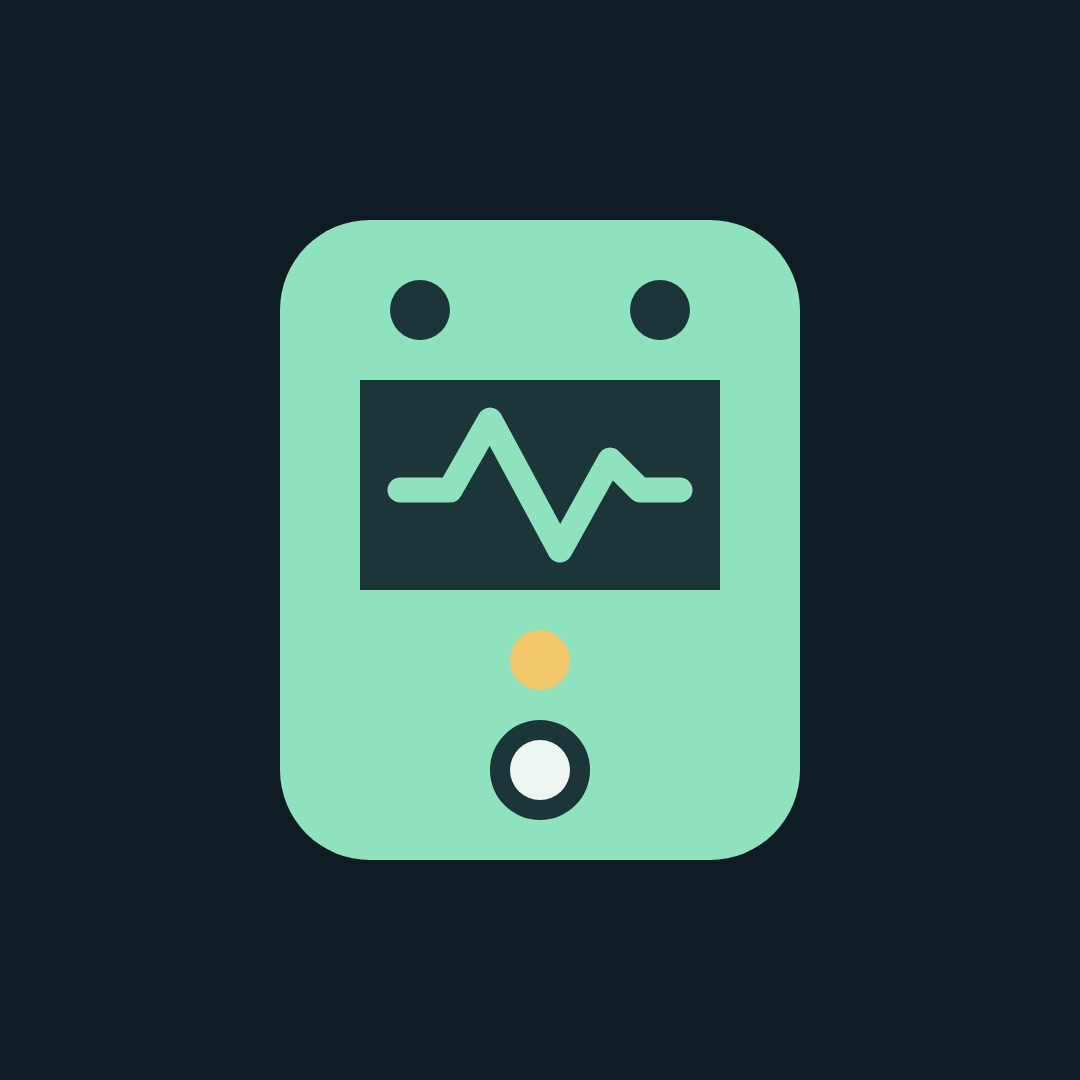
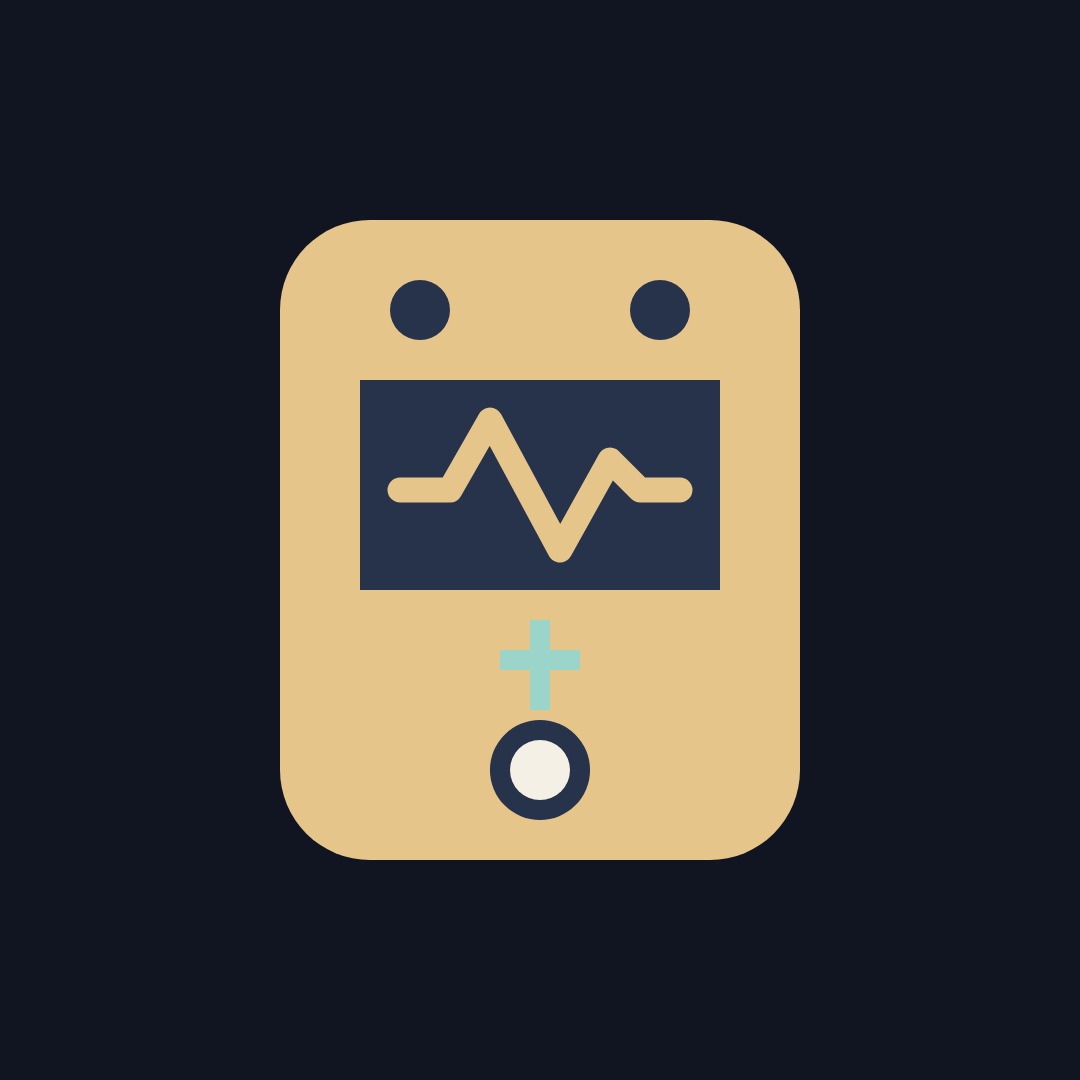
Refine tablet interface with midnight gold worship palette

Changed region(s): [[0.2444, 0.1833, 0.7639, 0.7944]]

diff --git a/app/src/main/assets/www/style.css b/app/src/main/assets/www/style.css
@@ -1,8 +1,81 @@
-:root{color-scheme:dark;--bg:#0d171e;--panel:#17252e;--line:#2c3c46;--text:#edf2f0;--muted:#a4b4bc;--mint:#9ce9c4;--gold:#e7c788;font-family:system-ui,sans-serif}*{box-sizing:border-box}body{margin:0;background:var(--bg);color:var(--text)}button,input,select{font:inherit}button{cursor:pointer;min-height:48px;border:1px solid var(--line);border-radius:13px;padding:11px 16px;color:var(--text);background:#20323d;font-weight:650}button:disabled{opacity:.45;cursor:default}button:focus-visible,input:focus-visible,select:focus-visible,summary:focus-visible{outline:3px solid var(--mint);outline-offset:3px}button:active{transform:translateY(1px)}.primary{background:var(--mint);color:#122a24;border-color:var(--mint)}.secondary{background:#233640}.text-button{background:transparent;border-color:transparent;color:var(--mint)}.top{padding:22px max(20px,env(safe-area-inset-right));display:flex;justify-content:space-between;align-items:center;gap:12px;border-bottom:1px solid var(--line)}.brand{display:flex;align-items:center;gap:12px}.brand-icon{display:grid;place-items:center;background:var(--mint);border-radius:12px;color:#142921;width:42px;height:46px;font-weight:900}.brand strong{font-size:21px;letter-spacing:-.6px}.brand strong span{font-weight:400;color:var(--muted)}.brand small{display:block;color:var(--muted);font-size:11px;margin-top:3px}.badge{font-size:10px;font-weight:800;letter-spacing:1px;border:1px solid var(--line);border-radius:20px;padding:9px;white-space:nowrap}.badge.connected{color:var(--mint);border-color:#44715e}main{max-width:1050px;margin:auto;padding:30px 20px 115px}h1{font-size:clamp(31px,6vw,48px);line-height:1.12;letter-spacing:-1.7px;margin:10px 0 18px}h1 span{color:var(--muted);font-weight:400}h2{font-size:18px;margin:0 0 15px}p{line-height:1.6}.eyebrow{color:var(--mint);font-size:10px;font-weight:800;letter-spacing:2px}.muted{color:var(--muted);font-size:13px}.section-heading{display:flex;align-items:center;justify-content:space-between;gap:15px}.compact{margin:22px 0 15px}.compact h2{margin:0}.welcome{text-align:center;padding:45px 20px;background:linear-gradient(155deg,#1e343b,#16242d);border:1px solid var(--line);border-radius:22px;margin-top:27px}.welcome p{max-width:420px;margin:0 auto 25px;color:var(--muted)}.welcome small{display:block;color:var(--muted);margin-top:15px}.empty-art{font-size:40px;color:var(--mint);letter-spacing:5px;margin-bottom:30px}.preset-bar{display:flex;align-items:end;gap:12px;margin-top:24px}.grow{flex:1}label{display:block;font-size:12px;color:var(--muted);line-height:1.4}input:not([type=checkbox]):not([type=range]),select{width:100%;background:#101e26;color:var(--text);border:1px solid #3a4b56;border-radius:10px;padding:12px;margin-top:7px;min-height:48px}select{max-width:100%;text-overflow:ellipsis}.icon-button{font-size:20px;width:48px;padding:8px}.scene-tabs{display:grid;grid-template-columns:repeat(3,1fr);gap:10px;margin-top:20px}.scene-tabs button{text-align:left;padding:14px 15px;background:#15242d}.scene-tabs button.active{background:#2e443c;border-color:var(--mint);color:var(--mint)}.scene-tabs small{display:block;font-size:11px;color:var(--muted);font-weight:400;margin-top:5px}.context-strip{display:flex;align-items:center;justify-content:space-between;gap:12px;color:var(--muted);font-size:11px;margin:17px 0}.context-strip label{display:flex;align-items:center;gap:7px}.context-strip input#tempo{width:70px;min-height:38px;margin:0;padding:8px}.chain{display:flex;gap:10px;overflow-x:auto;padding:4px 3px 17px;scroll-snap-type:x proximity}.block-card{flex:0 0 121px;padding:7px 8px 12px;background:#172832;text-align:left;position:relative;scroll-snap-align:start}.block-card.selected{border-color:var(--mint);background:#213a40}.block-card.bypass .gear-art{opacity:.35}.block-card .gear-art{width:100%;height:82px;display:block}.block-card strong{display:block;font-size:13px}.block-card small{display:block;font-size:10px;color:var(--muted);margin-top:5px;overflow:hidden;white-space:nowrap;text-overflow:ellipsis;max-width:104px}.led{display:inline-block;width:6px;height:6px;border-radius:50%;background:var(--mint);margin-right:5px}.bypass .led{background:#657681}.panel{background:var(--panel);border:1px solid var(--line);border-radius:19px;padding:20px;margin:18px 0}.panel .compact:first-child{margin-top:0}.block-header{display:flex;align-items:center;gap:17px}.block-header .gear-art{width:105px;height:85px;flex-shrink:0}.block-header h2{margin:5px 0}.block-header .eyebrow{font-size:10px}.inline{display:flex;align-items:center;gap:8px}input[type=checkbox]{width:22px;height:22px;accent-color:var(--mint)}.parameters{display:grid;grid-template-columns:repeat(2,minmax(0,1fr));gap:22px 20px;margin-top:25px}.parameter-head{display:flex;justify-content:space-between;gap:6px;font-size:12px;color:var(--muted)}output{color:var(--mint);font-weight:700}.parameter input{width:100%;min-height:44px;accent-color:var(--mint)}.actions{display:flex;gap:10px;flex-wrap:wrap;margin-top:20px}.notice{font-size:12px;color:#b8c7c9;line-height:1.6;border-left:2px solid #698c7c;padding-left:12px;margin:20px 0 0}.bottom{position:fixed;bottom:0;left:0;right:0;display:flex;justify-content:center;gap:15px;background:#101e27f5;border-top:1px solid var(--line);padding:10px 15px max(10px,env(safe-area-inset-bottom));z-index:10}.bottom button{background:none;border:0;color:var(--muted);min-width:140px}.bottom button.active{background:#294138;color:var(--mint)}.bottom span{margin-left:8px}.two-col{display:grid;grid-template-columns:1fr 1fr;gap:15px;margin:18px 0}.live-display{display:flex;align-items:center;gap:15px;background:#0e1d25;padding:20px;border-radius:12px}.live-display strong{font-size:33px;color:var(--mint)}.live-display span{font-size:14px;color:var(--muted)}summary{cursor:pointer;min-height:44px;font-weight:650}.mapping-row{display:grid;grid-template-columns:65px repeat(3,minmax(0,1fr));gap:8px;align-items:center;margin:15px 0}.mapping-row strong{font-size:12px}.mapping-row input{padding:9px!important}.live-effect{display:flex;align-items:center;justify-content:space-between;gap:10px;border-top:1px solid var(--line);padding:15px 0}.live-effect small{display:block;color:var(--muted);margin-top:5px}.live-effect .actions{margin:0;flex-wrap:nowrap}.live-effect button{padding:8px 12px}pre{font:11px/1.7 monospace;overflow:auto;color:#a5d7c3;max-height:230px}#toast{position:fixed;left:20px;right:20px;bottom:95px;background:#d8efdf;color:#14291f;padding:16px;border-radius:13px;z-index:50;box-shadow:0 8px 35px #0008;font-size:13px}#toast.error{background:#f2c8ba;color:#432115}dialog{background:var(--panel);color:var(--text);border:1px solid var(--line);border-radius:19px;max-width:calc(100vw - 40px);width:400px;padding:25px}dialog::backdrop{background:#000a}[hidden]{display:none!important}@media(min-width:800px){.parameters{grid-template-columns:repeat(4,minmax(0,1fr))}.top{padding-left:calc((100vw - 1010px)/2);padding-right:calc((100vw - 1010px)/2)}.chain{flex-wrap:wrap}.block-card{flex:1 0 130px;max-width:150px}}@media(max-width:380px){.brand small{display:none}.top{padding:16px}.badge{font-size:8px}main{padding:24px 14px 110px}.panel{padding:15px}.scene-tabs{gap:6px}.scene-tabs button{padding:12px}.live-effect{flex-wrap:wrap}}
+:root{color-scheme:dark;--bg:#101521;--panel:#192131;--line:#343e50;--text:#f5f0e6;--muted:#b2bac9;--mint:#e6c58b;--gold:#e6c58b;font-family:system-ui,sans-serif}*{box-sizing:border-box}body{margin:0;background:var(--bg);color:var(--text)}button,input,select{font:inherit}button{cursor:pointer;min-height:48px;border:1px solid var(--line);border-radius:13px;padding:11px 16px;color:var(--text);background:#253045;font-weight:650}button:disabled{opacity:.45;cursor:default}button:focus-visible,input:focus-visible,select:focus-visible,summary:focus-visible{outline:3px solid var(--mint);outline-offset:3px}button:active{transform:translateY(1px)}.primary{background:var(--mint);color:#201c14;border-color:var(--mint)}.secondary{background:#253045}.text-button{background:transparent;border-color:transparent;color:var(--mint)}.top{padding:22px max(20px,env(safe-area-inset-right));display:flex;justify-content:space-between;align-items:center;gap:12px;border-bottom:1px solid var(--line)}.brand{display:flex;align-items:center;gap:12px}.brand-icon{display:grid;place-items:center;background:var(--mint);border-radius:12px;color:#201c14;width:42px;height:46px;font-weight:900}.brand strong{font-size:21px;letter-spacing:-.6px}.brand strong span{font-weight:400;color:var(--muted)}.brand small{display:block;color:var(--muted);font-size:11px;margin-top:3px}.badge{font-size:10px;font-weight:800;letter-spacing:1px;border:1px solid var(--line);border-radius:20px;padding:9px;white-space:nowrap}.badge.connected{color:var(--mint);border-color:#708f8a}main{max-width:1050px;margin:auto;padding:30px 20px 115px}h1{font-size:clamp(31px,6vw,48px);line-height:1.12;letter-spacing:-1.7px;margin:10px 0 18px}h1 span{color:var(--muted);font-weight:400}h2{font-size:18px;margin:0 0 15px}p{line-height:1.6}.eyebrow{color:var(--mint);font-size:10px;font-weight:800;letter-spacing:2px}.muted{color:var(--muted);font-size:13px}.section-heading{display:flex;align-items:center;justify-content:space-between;gap:15px}.compact{margin:22px 0 15px}.compact h2{margin:0}.welcome{text-align:center;padding:45px 20px;background:linear-gradient(155deg,#26304a,#161e2e);border:1px solid var(--line);border-radius:22px;margin-top:27px}.welcome p{max-width:420px;margin:0 auto 25px;color:var(--muted)}.welcome small{display:block;color:var(--muted);margin-top:15px}.empty-art{font-size:40px;color:var(--mint);letter-spacing:5px;margin-bottom:30px}.preset-bar{display:flex;align-items:end;gap:12px;margin-top:24px}.grow{flex:1}label{display:block;font-size:12px;color:var(--muted);line-height:1.4}input:not([type=checkbox]):not([type=range]),select{width:100%;background:#111927;color:var(--text);border:1px solid #45516a;border-radius:10px;padding:12px;margin-top:7px;min-height:48px}select{max-width:100%;text-overflow:ellipsis}.icon-button{font-size:20px;width:48px;padding:8px}.scene-tabs{display:grid;grid-template-columns:repeat(3,1fr);gap:10px;margin-top:20px}.scene-tabs button{text-align:left;padding:14px 15px;background:#192335}.scene-tabs button.active{background:#393328;border-color:var(--mint);color:var(--mint)}.scene-tabs small{display:block;font-size:11px;color:var(--muted);font-weight:400;margin-top:5px}.context-strip{display:flex;align-items:center;justify-content:space-between;gap:12px;color:var(--muted);font-size:11px;margin:17px 0}.context-strip label{display:flex;align-items:center;gap:7px}.context-strip input#tempo{width:70px;min-height:38px;margin:0;padding:8px}.chain{display:flex;gap:10px;overflow-x:auto;padding:4px 3px 17px;scroll-snap-type:x proximity}.block-card{flex:0 0 121px;padding:7px 8px 12px;background:#1b2639;text-align:left;position:relative;scroll-snap-align:start}.block-card.selected{border-color:var(--mint);background:#303547}.block-card.bypass .gear-art{opacity:.35}.block-card .gear-art{width:100%;height:82px;display:block}.block-card strong{display:block;font-size:13px}.block-card small{display:block;font-size:10px;color:var(--muted);margin-top:5px;overflow:hidden;white-space:nowrap;text-overflow:ellipsis;max-width:104px}.led{display:inline-block;width:6px;height:6px;border-radius:50%;background:var(--mint);margin-right:5px}.bypass .led{background:#657681}.panel{background:var(--panel);border:1px solid var(--line);border-radius:19px;padding:20px;margin:18px 0}.panel .compact:first-child{margin-top:0}.block-header{display:flex;align-items:center;gap:17px}.block-header .gear-art{width:105px;height:85px;flex-shrink:0}.block-header h2{margin:5px 0}.block-header .eyebrow{font-size:10px}.inline{display:flex;align-items:center;gap:8px}input[type=checkbox]{width:22px;height:22px;accent-color:var(--mint)}.parameters{display:grid;grid-template-columns:repeat(2,minmax(0,1fr));gap:22px 20px;margin-top:25px}.parameter-head{display:flex;justify-content:space-between;gap:6px;font-size:12px;color:var(--muted)}output{color:var(--mint);font-weight:700}.parameter input{width:100%;min-height:44px;accent-color:var(--mint)}.actions{display:flex;gap:10px;flex-wrap:wrap;margin-top:20px}.notice{font-size:12px;color:#b8c7c9;line-height:1.6;border-left:2px solid #698c7c;padding-left:12px;margin:20px 0 0}.bottom{position:fixed;bottom:0;left:0;right:0;display:flex;justify-content:center;gap:15px;background:#141c2bf5;border-top:1px solid var(--line);padding:10px 15px max(10px,env(safe-area-inset-bottom));z-index:10}.bottom button{background:none;border:0;color:var(--muted);min-width:140px}.bottom button.active{background:#3a3329;color:var(--mint)}.bottom span{margin-left:8px}.two-col{display:grid;grid-template-columns:1fr 1fr;gap:15px;margin:18px 0}.live-display{display:flex;align-items:center;gap:15px;background:#111a29;padding:20px;border-radius:12px}.live-display strong{font-size:33px;color:var(--mint)}.live-display span{font-size:14px;color:var(--muted)}summary{cursor:pointer;min-height:44px;font-weight:650}.mapping-row{display:grid;grid-template-columns:65px repeat(3,minmax(0,1fr));gap:8px;align-items:center;margin:15px 0}.mapping-row strong{font-size:12px}.mapping-row input{padding:9px!important}.live-effect{display:flex;align-items:center;justify-content:space-between;gap:10px;border-top:1px solid var(--line);padding:15px 0}.live-effect small{display:block;color:var(--muted);margin-top:5px}.live-effect .actions{margin:0;flex-wrap:nowrap}.live-effect button{padding:8px 12px}pre{font:11px/1.7 monospace;overflow:auto;color:#a5d7c3;max-height:230px}#toast{position:fixed;left:20px;right:20px;bottom:95px;background:#d8efdf;color:#14291f;padding:16px;border-radius:13px;z-index:50;box-shadow:0 8px 35px #0008;font-size:13px}#toast.error{background:#f2c8ba;color:#432115}dialog{background:var(--panel);color:var(--text);border:1px solid var(--line);border-radius:19px;max-width:calc(100vw - 40px);width:400px;padding:25px}dialog::backdrop{background:#000a}[hidden]{display:none!important}@media(min-width:800px){.parameters{grid-template-columns:repeat(4,minmax(0,1fr))}.top{padding-left:calc((100vw - 1010px)/2);padding-right:calc((100vw - 1010px)/2)}.chain{flex-wrap:wrap}.block-card{flex:1 0 130px;max-width:150px}}@media(max-width:380px){.brand small{display:none}.top{padding:16px}.badge{font-size:8px}main{padding:24px 14px 110px}.panel{padding:15px}.scene-tabs{gap:6px}.scene-tabs button{padding:12px}.live-effect{flex-wrap:wrap}}
 .has-document #editorTitle,#midiView h1{font-size:27px;letter-spacing:-.8px;line-height:1.2;margin:10px 0}.has-document #editorView>.section-heading{align-items:center}.has-document #fileName{margin:12px 0 16px}.has-document .preset-bar{margin-top:14px}
 
-.bottom{gap:5px}.bottom button{min-width:0;flex:1;max-width:200px;padding:10px 7px;font-size:13px}.bottom span{margin-left:4px}.stage-title{font-size:30px;margin:6px 0;letter-spacing:-1px}.stage-top{display:flex;justify-content:space-between;align-items:center;gap:15px;flex-wrap:wrap;padding:14px 0}.stage-top>strong{font-size:20px;color:var(--mint)}.stage-scenes{display:grid;grid-template-columns:repeat(3,minmax(0,1fr));gap:12px;margin:16px 0}.stage-scene{min-height:98px;text-align:left;padding:15px;background:#192b35}.stage-scene strong{font-size:26px;display:block}.stage-scene span{font-size:12px;color:var(--muted);display:block;margin-top:7px;overflow-wrap:anywhere}.stage-scene.active{border-color:var(--mint);background:#29463a;color:var(--mint)}.stage-toolbar{display:flex;gap:10px;flex-wrap:wrap;margin:14px 0 24px}.stage-pedals{display:grid;grid-template-columns:repeat(2,minmax(0,1fr));gap:14px}.stage-pedal{border:1px solid var(--line);background:var(--panel);border-radius:17px;overflow:hidden}.stage-pedal.is-on{border-color:#639d86}.stage-open{border:0;background:transparent;border-radius:0;display:flex;align-items:center;flex-direction:column;width:100%;padding:10px 7px 15px;min-height:145px}.stage-open .gear-art{width:100%;height:80px;opacity:.5}.is-on .stage-open .gear-art{opacity:1}.stage-open strong{font-size:17px;margin-top:6px}.stage-open small{color:var(--muted);font-size:10px;max-width:100%;overflow:hidden;text-overflow:ellipsis;white-space:nowrap;margin-top:5px}.stage-toggle{width:100%;border-radius:0;border:0;border-top:1px solid var(--line);background:#25343d;color:var(--muted);min-height:56px}.is-on .stage-toggle{background:#29463a;color:var(--mint)}#stageEditor{width:min(720px,calc(100vw - 28px));max-height:85vh;overflow-y:auto}#transferDialog{width:min(640px,calc(100vw - 28px));max-height:85vh;overflow-y:auto}#transferSlots{max-height:200px;overflow:auto;background:#101e26;padding:13px;border-radius:10px}#stageTransfer{overflow-wrap:anywhere}#stageView .notice{margin-bottom:18px}@media(min-width:600px){.stage-pedals{grid-template-columns:repeat(3,minmax(0,1fr))}}@media(min-width:900px){.stage-pedals{grid-template-columns:repeat(4,minmax(0,1fr))}}@media(max-width:360px){.stage-scenes{gap:7px}.stage-scene{padding:12px;min-height:85px}.stage-pedals{gap:9px}.stage-open strong{font-size:15px}.stage-title{font-size:25px}}
+.bottom{gap:5px}.bottom button{min-width:0;flex:1;max-width:200px;padding:10px 7px;font-size:13px}.bottom span{margin-left:4px}.stage-title{font-size:30px;margin:6px 0;letter-spacing:-1px}.stage-top{display:flex;justify-content:space-between;align-items:center;gap:15px;flex-wrap:wrap;padding:14px 0}.stage-top>strong{font-size:20px;color:var(--mint)}.stage-scenes{display:grid;grid-template-columns:repeat(3,minmax(0,1fr));gap:12px;margin:16px 0}.stage-scene{min-height:98px;text-align:left;padding:15px;background:#1b2639}.stage-scene strong{font-size:26px;display:block}.stage-scene span{font-size:12px;color:var(--muted);display:block;margin-top:7px;overflow-wrap:anywhere}.stage-scene.active{border-color:var(--mint);background:#3b3429;color:var(--mint)}.stage-toolbar{display:flex;gap:10px;flex-wrap:wrap;margin:14px 0 24px}.stage-pedals{display:grid;grid-template-columns:repeat(2,minmax(0,1fr));gap:14px}.stage-pedal{border:1px solid var(--line);background:var(--panel);border-radius:17px;overflow:hidden}.stage-pedal.is-on{border-color:#a58d64}.stage-open{border:0;background:transparent;border-radius:0;display:flex;align-items:center;flex-direction:column;width:100%;padding:10px 7px 15px;min-height:145px}.stage-open .gear-art{width:100%;height:80px;opacity:.5}.is-on .stage-open .gear-art{opacity:1}.stage-open strong{font-size:17px;margin-top:6px}.stage-open small{color:var(--muted);font-size:10px;max-width:100%;overflow:hidden;text-overflow:ellipsis;white-space:nowrap;margin-top:5px}.stage-toggle{width:100%;border-radius:0;border:0;border-top:1px solid var(--line);background:#202b3e;color:var(--muted);min-height:56px}.is-on .stage-toggle{background:#3b3429;color:var(--mint)}#stageEditor{width:min(720px,calc(100vw - 28px));max-height:85vh;overflow-y:auto}#transferDialog{width:min(640px,calc(100vw - 28px));max-height:85vh;overflow-y:auto}#transferSlots{max-height:200px;overflow:auto;background:#111927;padding:13px;border-radius:10px}#stageTransfer{overflow-wrap:anywhere}#stageView .notice{margin-bottom:18px}@media(min-width:600px){.stage-pedals{grid-template-columns:repeat(3,minmax(0,1fr))}}@media(min-width:900px){.stage-pedals{grid-template-columns:repeat(4,minmax(0,1fr))}}@media(max-width:360px){.stage-scenes{gap:7px}.stage-scene{padding:12px;min-height:85px}.stage-pedals{gap:9px}.stage-open strong{font-size:15px}.stage-title{font-size:25px}}
 
 .stage-mode .top{padding:10px 20px}.stage-mode .brand small{display:none}.stage-mode .brand-icon{width:30px;height:32px;font-size:15px}.stage-mode .brand strong{font-size:18px}.stage-mode main{position:relative;padding-top:16px}.stage-ready.stage-mode #stageView>.section-heading{position:absolute;right:20px;top:46px;z-index:2}.stage-ready.stage-mode #stageView>.section-heading>div{display:none}.stage-ready.stage-mode #stageSync{min-height:40px;padding:8px 12px;font-size:12px}.stage-ready.stage-mode #stageStatus{font-size:11px;margin:0 0 7px;min-height:17px}.stage-ready.stage-mode .stage-top{padding:8px 96px 8px 0;min-height:48px}.stage-ready.stage-mode .stage-top>strong{font-size:17px}.stage-ready.stage-mode .stage-top label{font-size:10px}.stage-ready.stage-mode .stage-scenes{position:sticky;top:0;z-index:1;background:var(--bg);padding:5px 0;gap:8px;margin:4px 0 10px}.stage-ready.stage-mode .stage-scene{min-height:64px;padding:8px 12px}.stage-ready.stage-mode .stage-scene strong{font-size:21px}.stage-ready.stage-mode .stage-scene span{font-size:11px;margin-top:4px}.stage-ready.stage-mode .stage-open{min-height:84px;padding:7px}.stage-ready.stage-mode .stage-open .gear-art{height:38px}.stage-ready.stage-mode .stage-open strong{font-size:15px;margin-top:3px}.stage-ready.stage-mode .stage-open small{font-size:9px}.stage-ready.stage-mode .stage-toggle{min-height:48px}.stage-ready.stage-mode .stage-pedals{gap:10px}
 
-.header-actions{display:flex;align-items:center;gap:8px}#settingsOpen{min-width:44px;width:44px;padding:5px;font-size:21px}#settingsDialog{width:min(900px,calc(100vw - 26px));max-height:90vh;overflow:auto}#settingsDialog h1{font-size:24px;letter-spacing:-.5px}#padConfig{max-height:85vh;overflow-y:auto;width:min(520px,calc(100vw - 28px))}.performance-grid{display:grid;grid-template-columns:repeat(2,minmax(0,1fr));gap:14px;margin:20px 0}.performance-pad{min-height:158px;text-align:left;display:flex;flex-direction:column;justify-content:center;gap:10px;position:relative;padding:22px 16px;background:#192b35;border:2px solid #344a58;touch-action:pan-y;user-select:none;-webkit-user-select:none;-webkit-touch-callout:none}.performance-pad.active{background:#28483d;border-color:var(--mint)}.performance-pad strong{font-size:21px;overflow-wrap:anywhere}.performance-pad small{font-size:11px;color:var(--muted)}.pad-number{position:absolute;top:9px;right:12px;color:#90a4b0;font-size:10px}.pad-state{font-size:10px;color:var(--muted)}.performance-pad.active .pad-state{color:var(--mint)}.performance-pad.pressing{border-color:var(--gold)}#padsView .section-heading{align-items:center}#padsPreset{font-size:13px;min-height:20px}@media(min-width:700px){.performance-grid{grid-template-columns:repeat(4,minmax(0,1fr))}.performance-pad{min-height:180px}}@media(max-width:360px){.header-actions{gap:5px}.top .brand-icon{display:none}.top .brand strong{font-size:17px}.top .badge{font-size:8px;padding:6px}.performance-pad{min-height:145px;padding:20px 12px}.performance-pad strong{font-size:18px}}
+.header-actions{display:flex;align-items:center;gap:8px}#settingsOpen{min-width:44px;width:44px;padding:5px;font-size:21px}#settingsDialog{width:min(900px,calc(100vw - 26px));max-height:90vh;overflow:auto}#settingsDialog h1{font-size:24px;letter-spacing:-.5px}#padConfig{max-height:85vh;overflow-y:auto;width:min(520px,calc(100vw - 28px))}.performance-grid{display:grid;grid-template-columns:repeat(2,minmax(0,1fr));gap:14px;margin:20px 0}.performance-pad{min-height:158px;text-align:left;display:flex;flex-direction:column;justify-content:center;gap:10px;position:relative;padding:22px 16px;background:#1b2639;border:2px solid #3a465d;touch-action:pan-y;user-select:none;-webkit-user-select:none;-webkit-touch-callout:none}.performance-pad.active{background:#34332f;border-color:var(--mint)}.performance-pad strong{font-size:21px;overflow-wrap:anywhere}.performance-pad small{font-size:11px;color:var(--muted)}.pad-number{position:absolute;top:9px;right:12px;color:#a9b4c7;font-size:10px}.pad-state{font-size:10px;color:var(--muted)}.performance-pad.active .pad-state{color:var(--mint)}.performance-pad.pressing{border-color:var(--gold)}#padsView .section-heading{align-items:center}#padsPreset{font-size:13px;min-height:20px}@media(min-width:700px){.performance-grid{grid-template-columns:repeat(4,minmax(0,1fr))}.performance-pad{min-height:180px}}@media(max-width:360px){.header-actions{gap:5px}.top .brand-icon{display:none}.top .brand strong{font-size:17px}.top .badge{font-size:8px;padding:6px}.performance-pad{min-height:145px;padding:20px 12px}.performance-pad strong{font-size:18px}}
+
+/* Quiet worship palette; color complements the explicit ON/OFF labels. */
+:root{--teal:#9bd4c8;--shadow:0 10px 28px #05091440}
+body{min-height:100vh;background:radial-gradient(ellipse at 90% 0,#26304a66,transparent 55%),var(--bg);background-repeat:no-repeat}
+button{transition:border-color .15s,background-color .15s; -webkit-tap-highlight-color:transparent}
+button:disabled{opacity:.55}
+.primary{background:linear-gradient(120deg,#efd6a7,#d8b577);box-shadow:0 3px 12px #080b1426}
+.secondary{background:#222d41}
+.top{background:#121a28;border-bottom-color:#303a4c}
+.brand-icon{background:#e6c58b14;border:1px solid #a58d6455;color:var(--gold);border-radius:13px}
+.brand-icon svg{width:28px;height:28px}
+.brand strong{font-weight:750}.brand strong span{color:var(--gold);font-weight:450}
+.badge{color:var(--muted);font-size:9px;letter-spacing:.7px;background:#0f1725}
+.badge.connected{color:var(--teal);border-color:#5c8c83;background:#18322f}
+.eyebrow{color:var(--gold);font-size:9px;letter-spacing:2.2px}
+.stage-title{font-weight:750;letter-spacing:-.9px}
+.stage-top{border-bottom:1px solid var(--line);margin-bottom:12px}
+.stage-top>strong{color:var(--text)}
+.stage-scenes{gap:12px}.stage-scene{border-radius:16px;box-shadow:var(--shadow);position:relative;overflow:hidden}
+.stage-scene strong{color:var(--muted);font-size:24px;font-weight:600}
+.stage-scene.active{background:linear-gradient(130deg,#453b2d,#282a2d);border-color:#c9ac78}
+.stage-scene.active strong,.stage-scene.active span{color:#f0d6a7}
+.stage-scene.active::after{content:'';width:6px;height:6px;border-radius:50%;background:var(--gold);position:absolute;right:14px;top:14px}
+.stage-pedal,.performance-pad{--effect:#a8b6ca;box-shadow:var(--shadow)}
+[data-kind="scene"]{--effect:#e6c58b}[data-kind="EFX"]{--effect:#e3b48c}[data-kind="AMP"]{--effect:#dec38e}[data-kind="DLY"]{--effect:#ada7e5}[data-kind="RVB"]{--effect:#8acacb}[data-kind="MOD"]{--effect:#92b7e4}[data-kind="CMP"]{--effect:#c3bc9f}[data-kind="EQ"]{--effect:#a9c8a8}
+.stage-pedal{border-radius:18px;border-top:3px solid #45516a;background:linear-gradient(145deg,#202b3e,#172131)}
+.stage-pedal.is-on{border-color:#46546b;border-top-color:var(--effect)}
+.stage-open small{font-size:11px;letter-spacing:.15px}
+.stage-open strong{font-weight:650}
+.stage-open .gear-art{opacity:.65}
+.stage-toggle{font-size:12px;letter-spacing:.3px;background:#141e2e;color:var(--muted)}
+.is-on .stage-toggle{color:var(--effect);background:#232e40}
+.stage-toggle::before{content:'';display:inline-block;width:6px;height:6px;background:#647188;border-radius:50%;margin-right:8px;vertical-align:middle}
+.is-on .stage-toggle::before{background:var(--effect)}
+.performance-grid{gap:16px}
+.performance-pad{border:1px solid #3a465d;border-top:3px solid var(--effect);border-radius:20px;background:linear-gradient(145deg,#222d43,#182235);min-height:180px;padding:44px 20px 20px;gap:10px;justify-content:flex-start}
+.performance-pad::before{content:attr(data-type);font-size:9px;letter-spacing:2px;font-weight:750;color:var(--effect)}
+.performance-pad strong{font-size:22px;letter-spacing:-.4px;font-weight:700;line-height:1.2}
+.performance-pad small{font-size:11px;line-height:1.5}
+.performance-pad.active{background:linear-gradient(130deg,#303a45,#202d39);border-color:var(--effect);border-top-width:3px}
+.performance-pad.active strong{color:var(--text)}
+.pad-number{font-size:11px;letter-spacing:1px;top:14px;right:16px;color:#b6bfd0}
+.pad-state{margin-top:auto;display:flex;align-items:center;gap:7px;font-size:10px;padding-top:10px}
+.pad-state::before{content:'';width:6px;height:6px;border-radius:50%;background:#77849a;flex:none}
+.performance-pad.active .pad-state{color:var(--effect)}
+.performance-pad.active .pad-state::before{background:var(--effect);box-shadow:0 0 10px #9bd4c833}
+.performance-pad.pressing{border-color:var(--gold);background:#3a352e}
+.bottom{background:#131b2bf5;border-top-color:#343e50;padding-top:9px;gap:8px}
+.bottom button{border-radius:14px;min-height:50px;font-size:14px}
+.bottom button.active{background:#e6c58b17;color:var(--gold);box-shadow:inset 0 0 0 1px #b69c6d55}
+input[type=range],input[type=checkbox]{accent-color:var(--gold)}
+#stageModelControls{background:#111a29;border:1px solid var(--line);border-radius:14px;padding:16px;margin:18px 0 22px}
+#stageModelApply{margin-top:12px;color:var(--gold);border-color:#a58d6466}
+#stageModelControls .muted{margin-bottom:0;font-size:11px}
+dialog{box-shadow:0 24px 90px #0008;border-color:#46516a;border-radius:24px}
+dialog::backdrop{background:#080d17cc}
+.signature{display:flex;align-items:center;justify-content:center;gap:9px;padding:26px 0 6px;color:#b7ad97;font-size:11px;letter-spacing:.3px}
+.signature>span:first-child{color:var(--gold);font-size:15px}.signature-ref{font-size:8px;color:var(--muted);letter-spacing:1.3px;margin-left:5px}
+.stage-ready.stage-mode .stage-open small{font-size:10px}.stage-ready.stage-mode .stage-toggle{font-size:12px}
+@media(min-width:700px){.performance-pad{min-height:205px}}
+@media(max-width:380px){.performance-grid{gap:10px}.performance-pad{padding:36px 13px 15px;min-height:178px;border-radius:16px}.performance-pad strong{font-size:19px}.performance-pad small{font-size:10px}.pad-state{font-size:9px}.stage-title{font-size:27px}.signature{gap:6px}.signature-ref{font-size:7px}}
+@media(prefers-reduced-motion:reduce){button{transition:none}}
+
+@media(max-height:480px){
+  .stage-mode .top{padding:6px 16px}.stage-mode main{padding-top:10px}
+  #padsView .eyebrow{display:none}#padsView .stage-title{font-size:23px;margin:0}
+  #padsPreset{margin:8px 0;font-size:11px}#padsView .section-heading button{min-height:42px;padding:8px 12px;font-size:12px}
+  .performance-grid{gap:10px;margin:10px 0}.performance-pad{min-height:112px;padding:25px 12px 10px;gap:5px;border-radius:15px}
+  .performance-pad::before{font-size:8px;letter-spacing:1.4px}.performance-pad strong{font-size:18px}.performance-pad small{font-size:9px}
+  .pad-number{top:9px;right:12px;font-size:9px}.pad-state{font-size:8px;padding-top:3px}
+  .bottom{background:#131b2b;padding-top:6px}.bottom button{min-height:46px}
+}
+@media(max-height:480px) and (min-width:700px){.performance-pad[data-kind="scene"] small{display:none}}

diff --git a/app/src/main/assets/www/index.html b/app/src/main/assets/www/index.html
@@ -2,20 +2,20 @@
 <html lang="es">
 <head>
   <meta charset="utf-8"><meta name="viewport" content="width=device-width, initial-scale=1, viewport-fit=cover">
-  <meta name="theme-color" content="#0d171e">
+  <meta name="theme-color" content="#101521">
   <title>MG30 Pocket</title><link rel="stylesheet" href="style.css">
 </head>
 <body>
-  <header class="top"><div class="brand"><span class="brand-icon">M</span><div><strong>MG30 <span>Pocket</span></strong><small>Tu pedalboard, en el bolsillo.</small></div></div><div class="header-actions"><span id="connectionBadge" class="badge">SIN CONEXIÓN</span><button id="settingsOpen" class="icon-button" aria-label="Ajustes">&#9881;</button></div></header>
+  <header class="top"><div class="brand"><span class="brand-icon" aria-hidden="true"><svg viewBox="0 0 32 32" fill="none"><path d="M16 5v22M9 12h14" stroke="currentColor" stroke-width="2.5" stroke-linecap="round"/><path d="M5 23l4-4 4 4M19 23l4-4 4 4" stroke="currentColor" stroke-width="1.5" stroke-linecap="round" opacity=".45"/></svg></span><div><strong>MG30 <span>Pocket</span></strong><small>Hecho para servir. Listo para tocar.</small></div></div><div class="header-actions"><span id="connectionBadge" class="badge">SIN CONEXIÓN</span><button id="settingsOpen" class="icon-button" aria-label="Ajustes">&#9881;</button></div></header>
   <main>
     <section id="padsView" hidden>
-      <div class="section-heading"><div><span class="eyebrow">TOCAR &middot; MANTENER PARA CONFIGURAR</span><h1 class="stage-title">Pads</h1></div><button id="padsSync" class="secondary">Leer NUX</button></div>
+      <div class="section-heading"><div><span class="eyebrow">TU SONIDO, AL SERVICIO</span><h1 class="stage-title">Pads en vivo</h1></div><button id="padsSync" class="secondary">Leer NUX</button></div>
       <p id="padsPreset" class="muted"></p>
       <div id="padGrid" class="performance-grid"></div>
       <p class="muted">Un toque ejecuta. Mantener pulsado configura sin ejecutar. Con teclado: Shift + F10.</p>
     </section>
     <section id="stageView" hidden>
-      <div class="section-heading"><div><span class="eyebrow">TABLET · EN DIRECTO</span><h1 class="stage-title">Editar preset actual</h1></div><button id="stageSync" class="primary">Leer NUX</button></div>
+      <div class="section-heading"><div><span class="eyebrow">ENCUENTRA TU VOZ</span><h1 class="stage-title">Tu pedalboard</h1></div><button id="stageSync" class="primary">Leer NUX</button></div>
       <p id="stageStatus" class="muted" role="status">Conecta USB MIDI y pulsa Leer NUX. Puedes usar pantalla dividida con tu app de letras.</p>
       <div class="stage-top"><strong id="stagePreset">Sin preset leído</strong><label class="inline"><input id="stageAwake" type="checkbox"> Mantener pantalla encendida</label></div>
       <div id="stageScenes" class="stage-scenes" role="group" aria-label="Cambiar escena en la NUX"></div>
@@ -41,6 +41,7 @@
       </div>
     </section>
 
+    <footer class="signature"><span aria-hidden="true">✝</span> Para Su gloria <span class="signature-ref">SALMO 150:6</span></footer>
   </main>
   <nav class="bottom" aria-label="Pantallas"><button id="stageTab" class="active">&#9638; <span>Editar</span></button><button id="padsTab">&#9673; <span>Pads</span></button></nav>
   <div id="toast" role="status" aria-live="polite" hidden></div>

diff --git a/app/src/androidTest/java/cl/isanfurg/mg30pocket/SmokeRunner.java b/app/src/androidTest/java/cl/isanfurg/mg30pocket/SmokeRunner.java
@@ -128,6 +128,12 @@ public class SmokeRunner extends Instrumentation {
             runOnMainSync(()->activity.setRequestedOrientation(android.content.pm.ActivityInfo.SCREEN_ORIENTATION_LANDSCAPE));Thread.sleep(1000);
             check("document.documentElement.scrollWidth<=window.innerWidth","true");
             screenshot("qa-pads-tablet.png");
+            evaluate("document.getElementById('stageTab').click()");
+            until("!document.getElementById('stageView').hidden","true");Thread.sleep(350);
+            check("document.documentElement.scrollWidth<=window.innerWidth","true");
+            screenshot("qa-stage-tablet.png");
+            evaluate("document.getElementById('padsTab').click()");
+            Thread.sleep(350);
             Bitmap icon=Bitmap.createBitmap(1080,1080,Bitmap.Config.ARGB_8888);
             android.graphics.drawable.Drawable art=getTargetContext().getDrawable(cl.isanfurg.mg30pocket.R.drawable.ic_launcher);
             art.setBounds(0,0,1080,1080);art.draw(new android.graphics.Canvas(icon));

diff --git a/README.md b/README.md
@@ -1,6 +1,10 @@
 # MG30 Pocket
 
-<img src="docs/images/icon.svg" width="112" alt="Icono original: pedal verde con onda de audio">
+<img src="docs/images/icon.svg" width="112" alt="Icono original: pedal dorado con onda de audio y cruz discreta">
+
+### Diseño 0.4.1
+
+Azul noche, marfil y dorado suave; pedales y pads identificados por familia de efecto, estados con texto y luz, escenas grandes y controles táctiles. Una cruz pequeña en la marca y la firma «Para Su gloria · Salmo 150:6» acompañan la interfaz sin ocupar los controles. Todo funciona offline, sin fuentes ni imágenes remotas. Incluye icono Android y archivos PNG/SVG para la comunidad.
 
 ### Novedades 0.4.0
 
@@ -12,7 +16,7 @@ Icono original incluido en Android y como [PNG](docs/images/icon.png) y [SVG par
 
 App Android gratuita y offline para controlar una NUX MG-30 desde una tablet, junto a tu app de letras. Proyecto independiente, sin afiliación con NUX.
 
-[Descargar APK 0.4.0 de prueba](https://github.com/Isanfurg/mg30-pocket/releases/tag/v0.4.0)
+[Descargar APK 0.4.1 de prueba](https://github.com/Isanfurg/mg30-pocket/releases/tag/v0.4.1)
 
 ## Dos pestañas
 
